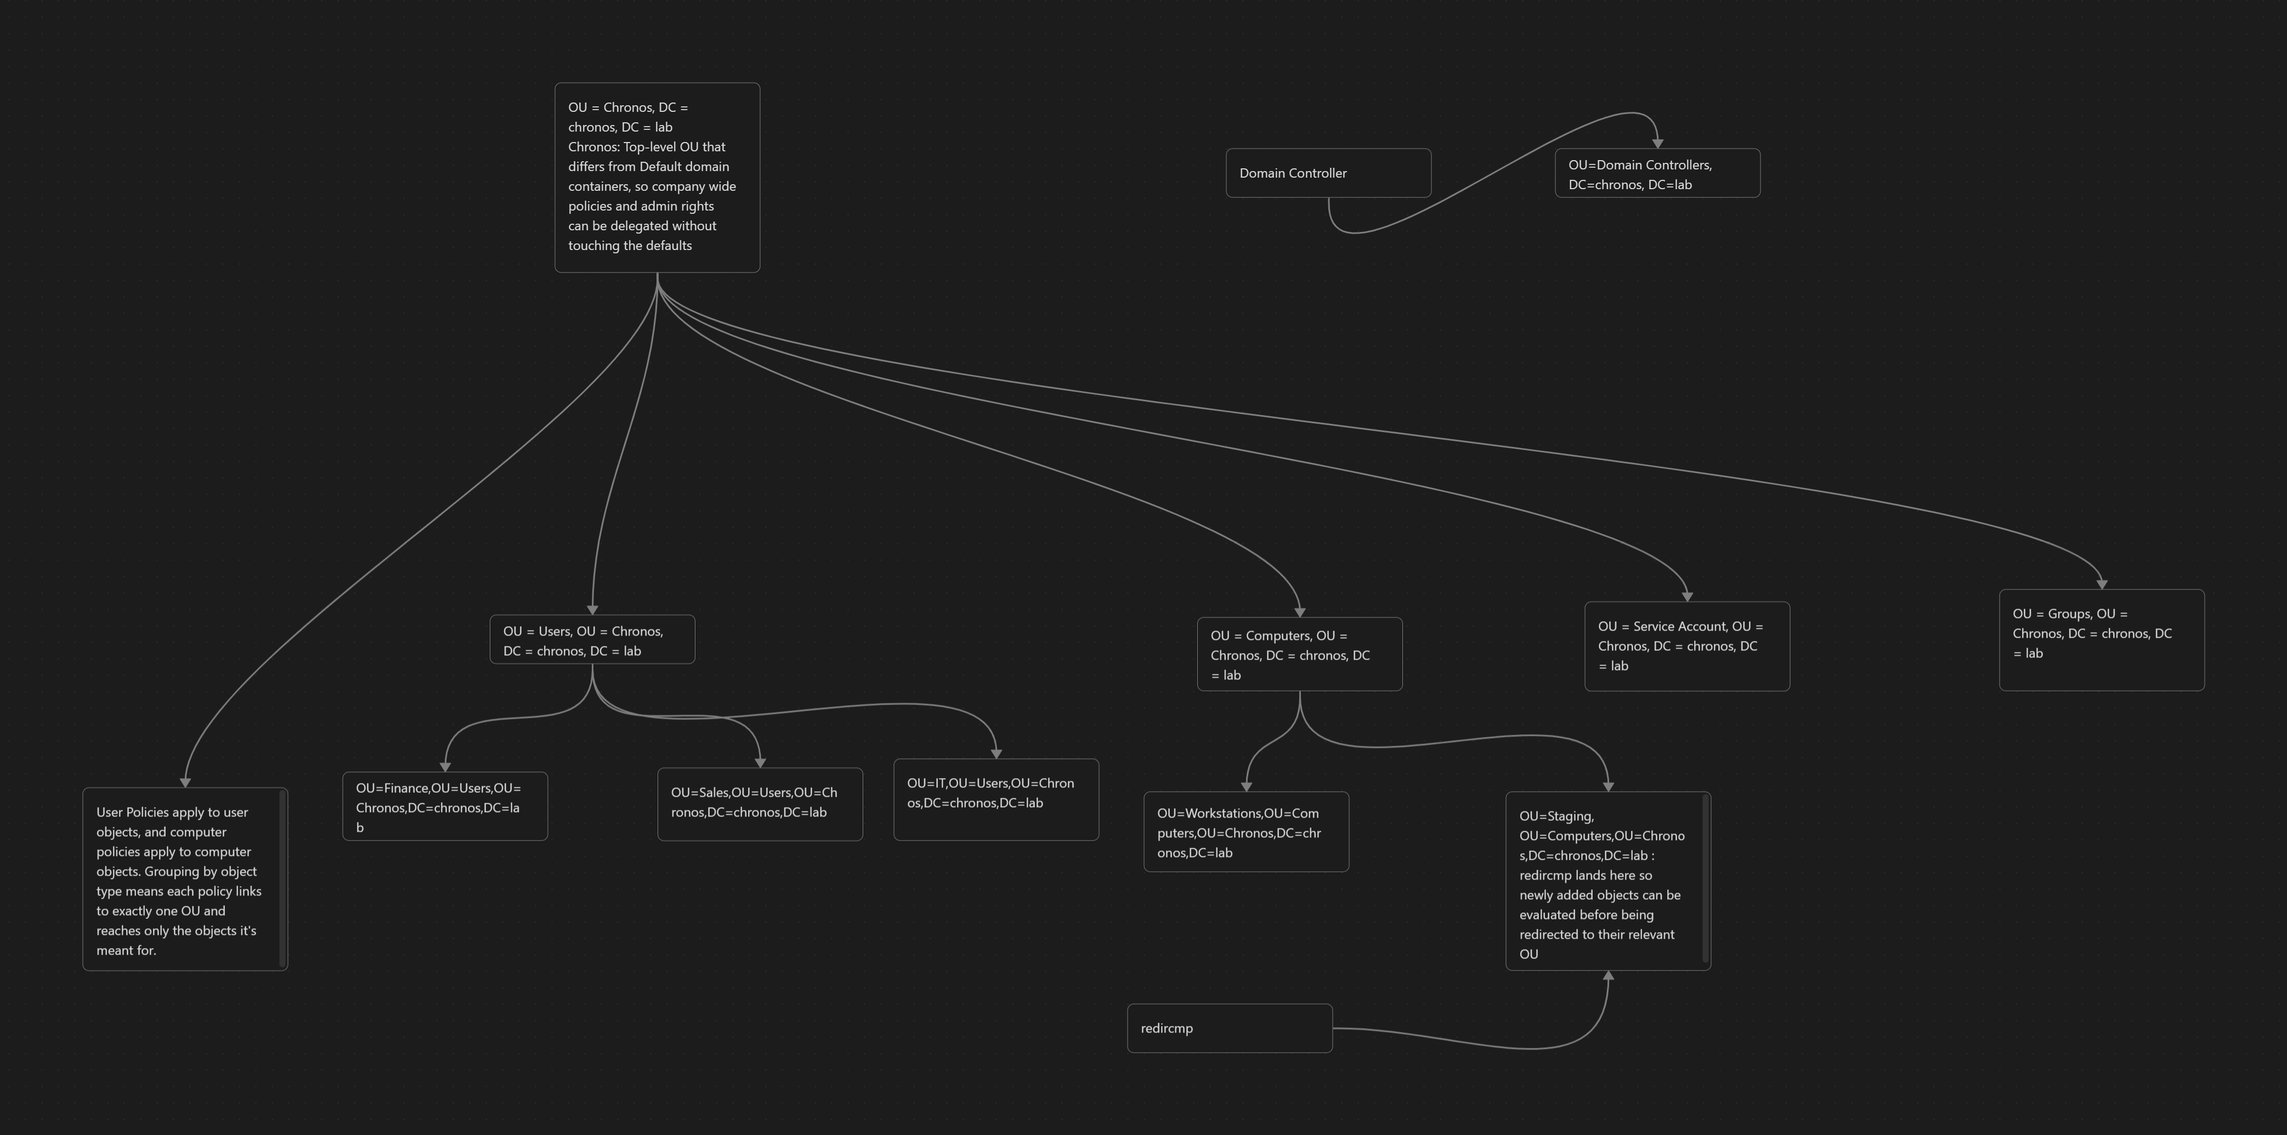
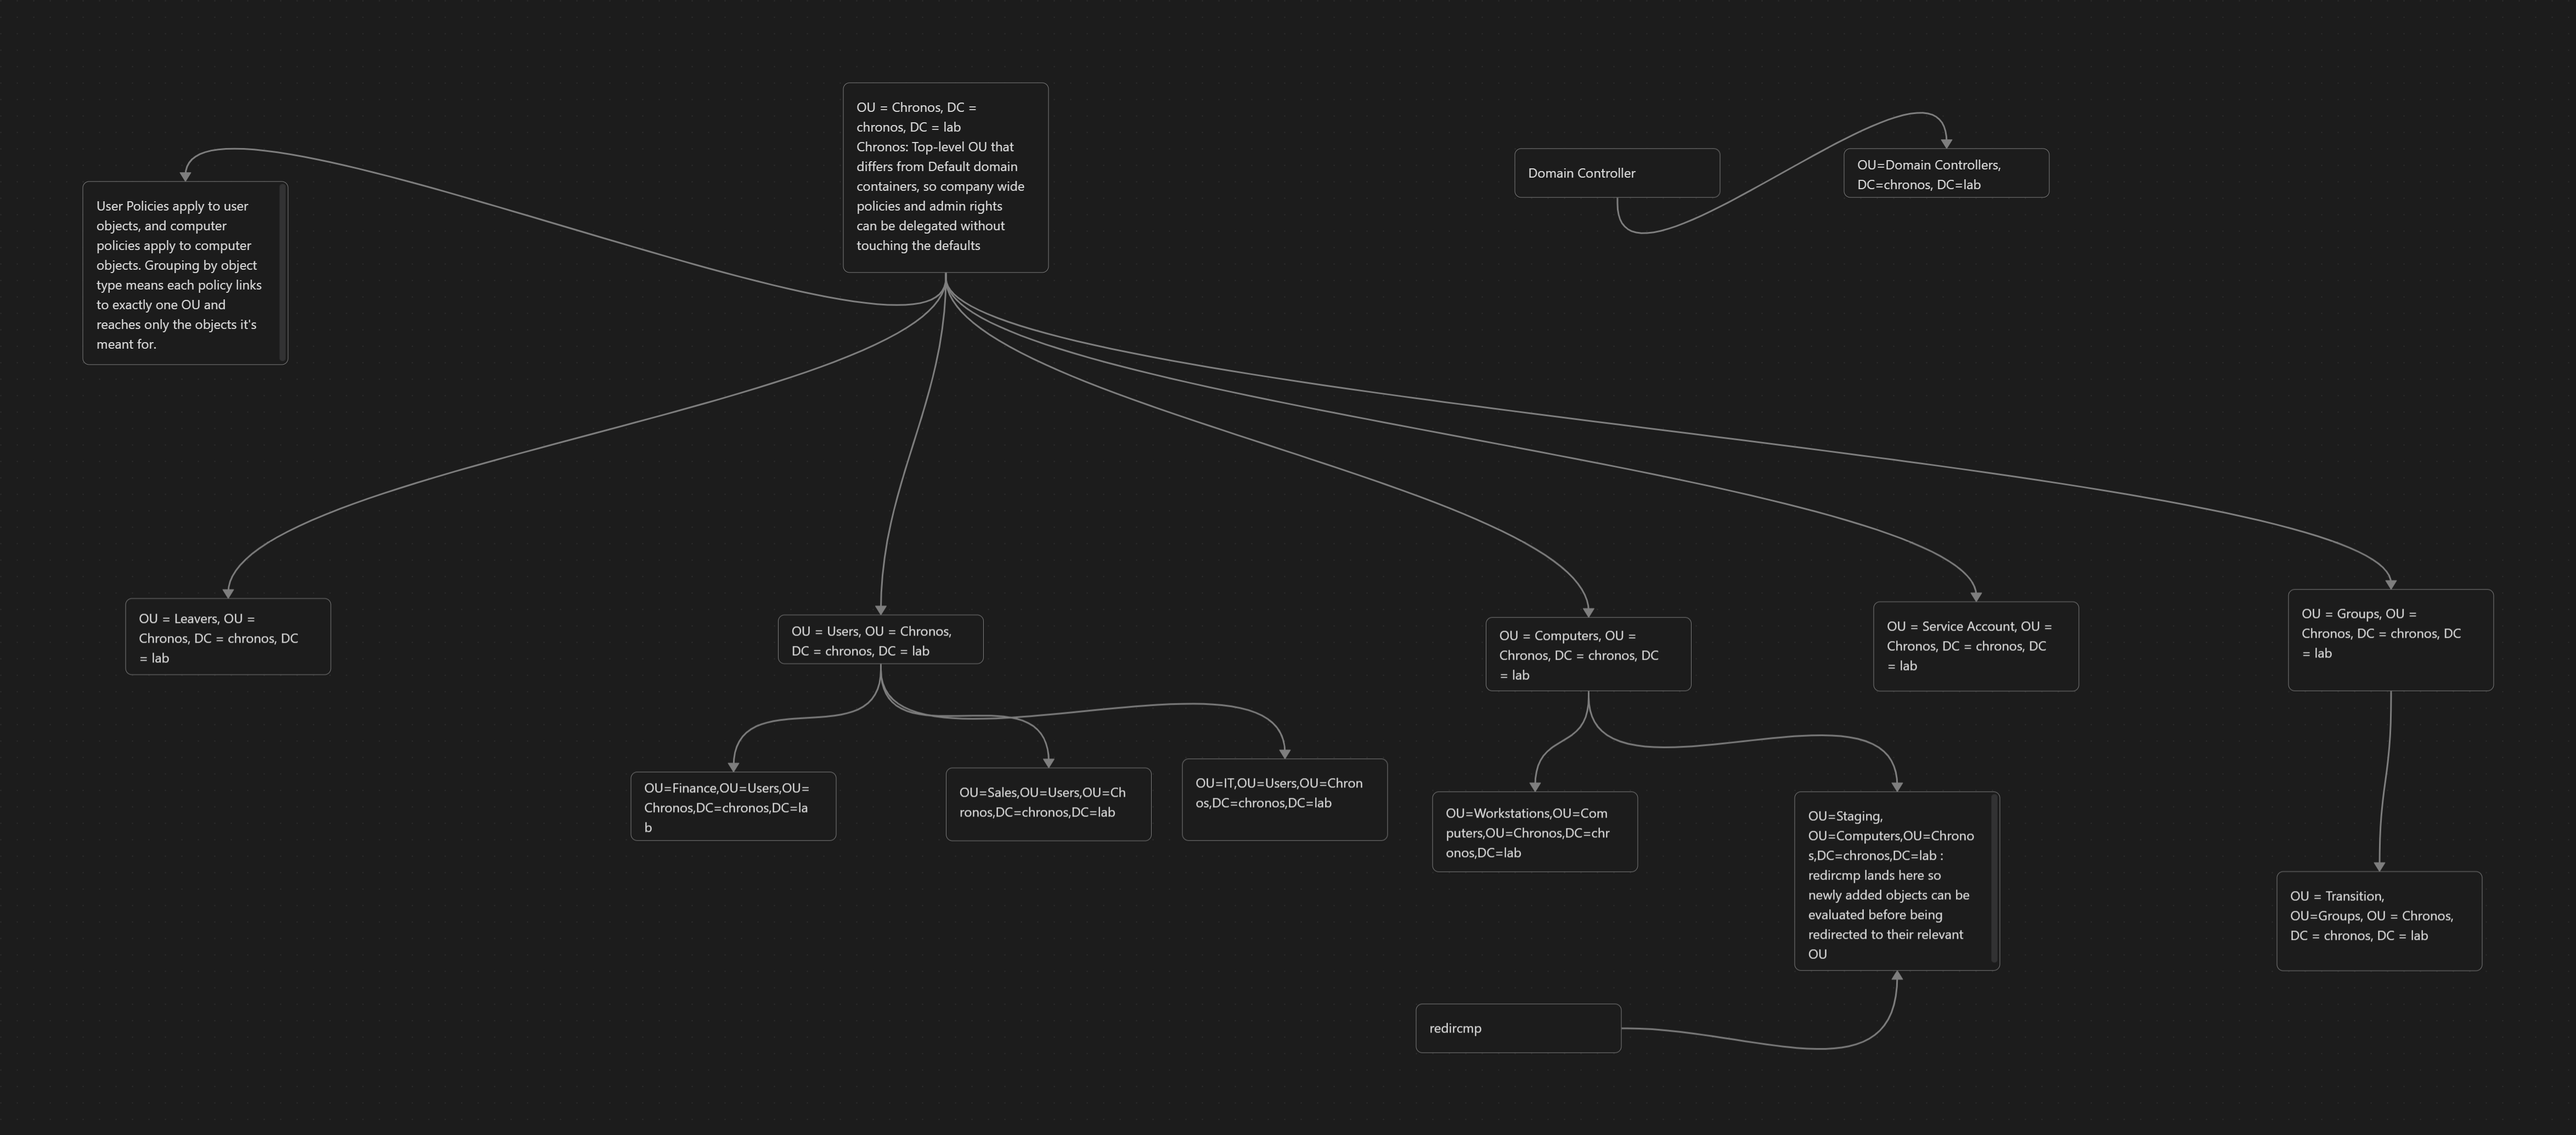
Mover script, shared roles file, Transition OU (Phase 1 JML)
- chronos-roles.psd1: single source of truth for department ->
  birthright groups + user OU, plus TransitionOU; anything not listed
  is requested (ad-hoc) access
- New-ChronosADUser (renamed from New-ADChronosUser): reads the roles
  file; unknown-department guard replaces ValidateSet; split try blocks
  report a partial result when the group add fails; sync only after success
- Move-ChronosADUser: guards (missing user, disabled/leaver, same
  department, duplicate ticket); birthright swap, remove-first; ad-hoc
  access moved into a per-user TEMP_Expire_<expiry>_<sam> shadow group
  in Groups/Transition; delta sync waited out before the Graph revoke;
  before/after snapshot logged to C:\Logs\MoverAuditLog.csv
- Disable-ChronosUser: -ErrorAction Stop on Connect-MgGraph/Revoke so
  failures reach the catch
- Design: Leavers and Groups/Transition added to OU tree, DN table,
  reasoning and diagram

Claude-Session: https://claude.ai/code/session_01E5pHSnnY3EeCmcPqAaoqgn

diff --git a/Design/OU-Design.md b/Design/OU-Design.md
@@ -15,8 +15,10 @@ chronos.lab
     ├── Computers
     │   ├── Staging               (redircmp target: new machines land here)
     │   └── Workstations
-    ├── Groups
-    └── Service Accounts
+    ├── Groups                    (department birthright groups + requested-access groups)
+    │   └── Transition            (per-user TEMP_Expire_* shadow groups created by the mover)
+    ├── Service Accounts
+    └── Leavers                   (disabled leavers; inside sync scope so they show as disabled in Entra)
 ```
 
 ## Distinguished names
@@ -32,7 +34,9 @@ chronos.lab
 | Staging                       | `OU=Staging,OU=Computers,OU=Chronos,DC=chronos,DC=lab`      |
 | Workstations                  | `OU=Workstations,OU=Computers,OU=Chronos,DC=chronos,DC=lab` |
 | Groups                        | `OU=Groups,OU=Chronos,DC=chronos,DC=lab`                    |
+| Transition                    | `OU=Transition,OU=Groups,OU=Chronos,DC=chronos,DC=lab`      |
 | Service Accounts              | `OU=Service Accounts,OU=Chronos,DC=chronos,DC=lab`          |
+| Leavers                       | `OU=Leavers,OU=Chronos,DC=chronos,DC=lab`                   |
 | Domain Controllers (built-in) | `OU=Domain Controllers,DC=chronos,DC=lab`                   |
 
 ## Reasoning
@@ -41,3 +45,6 @@ chronos.lab
 - **Separated by object type:** user policies apply to user objects and computer policies apply to computer objects, so each policy links to exactly one OU and reaches only the objects it's meant for.
 - **Domain controllers:** DC01 stays in the built-in `Domain Controllers` OU, where the Default Domain Controllers Policy is linked.
 - **`redircmp` target: Staging.** redircmp lands here so newly added objects can be evaluated before being redirected to their relevant OU
+- **`Leavers`:** the leaver script moves disabled accounts here. It sits inside the Entra Connect sync scope, so a leaver shows as *disabled* in Entra rather than deleted, which keeps the cloud object and its audit history.
+- **`Groups/Transition`:** holds only the per-user `TEMP_Expire_<expiry>_<sam>` shadow groups the mover creates, each nested into the requested-access groups the user held before moving. Keeping them in one OU means the cleanup job and the stale-group check can scope their search to it (`-SearchBase`), so neither can touch a group anywhere else, and anything in this OU past its expiry date points to a failed cleanup.
+- **Birthright vs requested access is not shown by OU placement.** Department birthright groups and requested-access groups both sit in `Groups`. The classification lives in one place only, `chronos-roles.psd1`: a group listed there is birthright, and any other group is requested access. Encoding the same split in the OU structure would create a second source of truth that could drift from the file.
